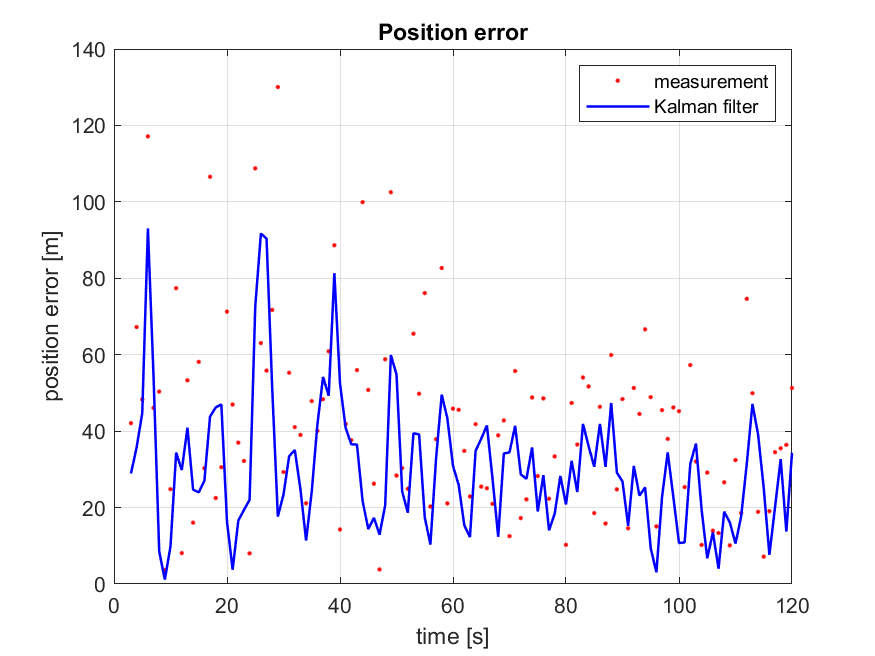
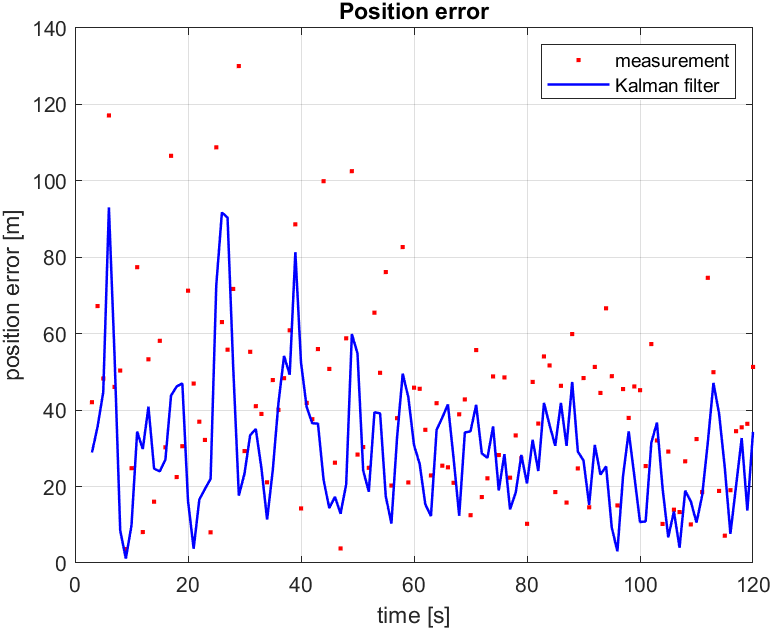
Update results to current run

diff --git a/main.m b/main.m
@@ -65,7 +65,7 @@ axis equal; grid on;
 xlabel('x [m]'); ylabel('y [m]');
 legend('true path', 'radar measurements', 'Kalman estimate', 'radar', 'Location', 'best');
 title('2D target tracking');
-saveas(gcf, 'results/track.png');
+ax = gca; ax.Toolbar.Visible = 'off'; drawnow; exportgraphics(gcf, 'results/track.png');
 
 figure;
 t = idx*dt;
@@ -75,7 +75,7 @@ grid on;
 xlabel('time [s]'); ylabel('position error [m]');
 legend('measurement', 'Kalman filter');
 title('Position error');
-saveas(gcf, 'results/error.png');
+ax = gca; ax.Toolbar.Visible = 'off'; drawnow; exportgraphics(gcf, 'results/error.png');
 
 %% q sweep
 q_list = [0.1 0.5 1 2 5 10 20 50 100 200 500 1000];
@@ -98,4 +98,4 @@ semilogx(q_list, rmse, 'o-', 'LineWidth', 1.2);
 grid on;
 xlabel('q [m^2/s^4]'); ylabel('RMSE [m]');
 title('Filter error vs. process noise q');
-saveas(gcf, 'results/q_sweep.png');
+ax = gca; ax.Toolbar.Visible = 'off'; drawnow; exportgraphics(gcf, 'results/q_sweep.png');

diff --git a/README.md b/README.md
@@ -10,7 +10,7 @@ I wrote it to understand how state estimation works in practice after seeing the
 - runs a linear Kalman filter with a constant velocity model
 - compares the position error of the raw measurements and the filter estimate (RMSE)
 
-With q = 50 the filter reduces the RMSE from 47.4 m (raw measurements) to 34.5 m, about 27 % less. During the turns the error goes up for a few seconds, because the constant velocity model does not expect a turn.
+With q = 50 the filter reduces the RMSE from 48.2 m (raw measurements) to 34.9 m, about 28 % less. During the turns the error goes up for a few seconds, because the constant velocity model does not expect a turn.
 
 ## Files
 
